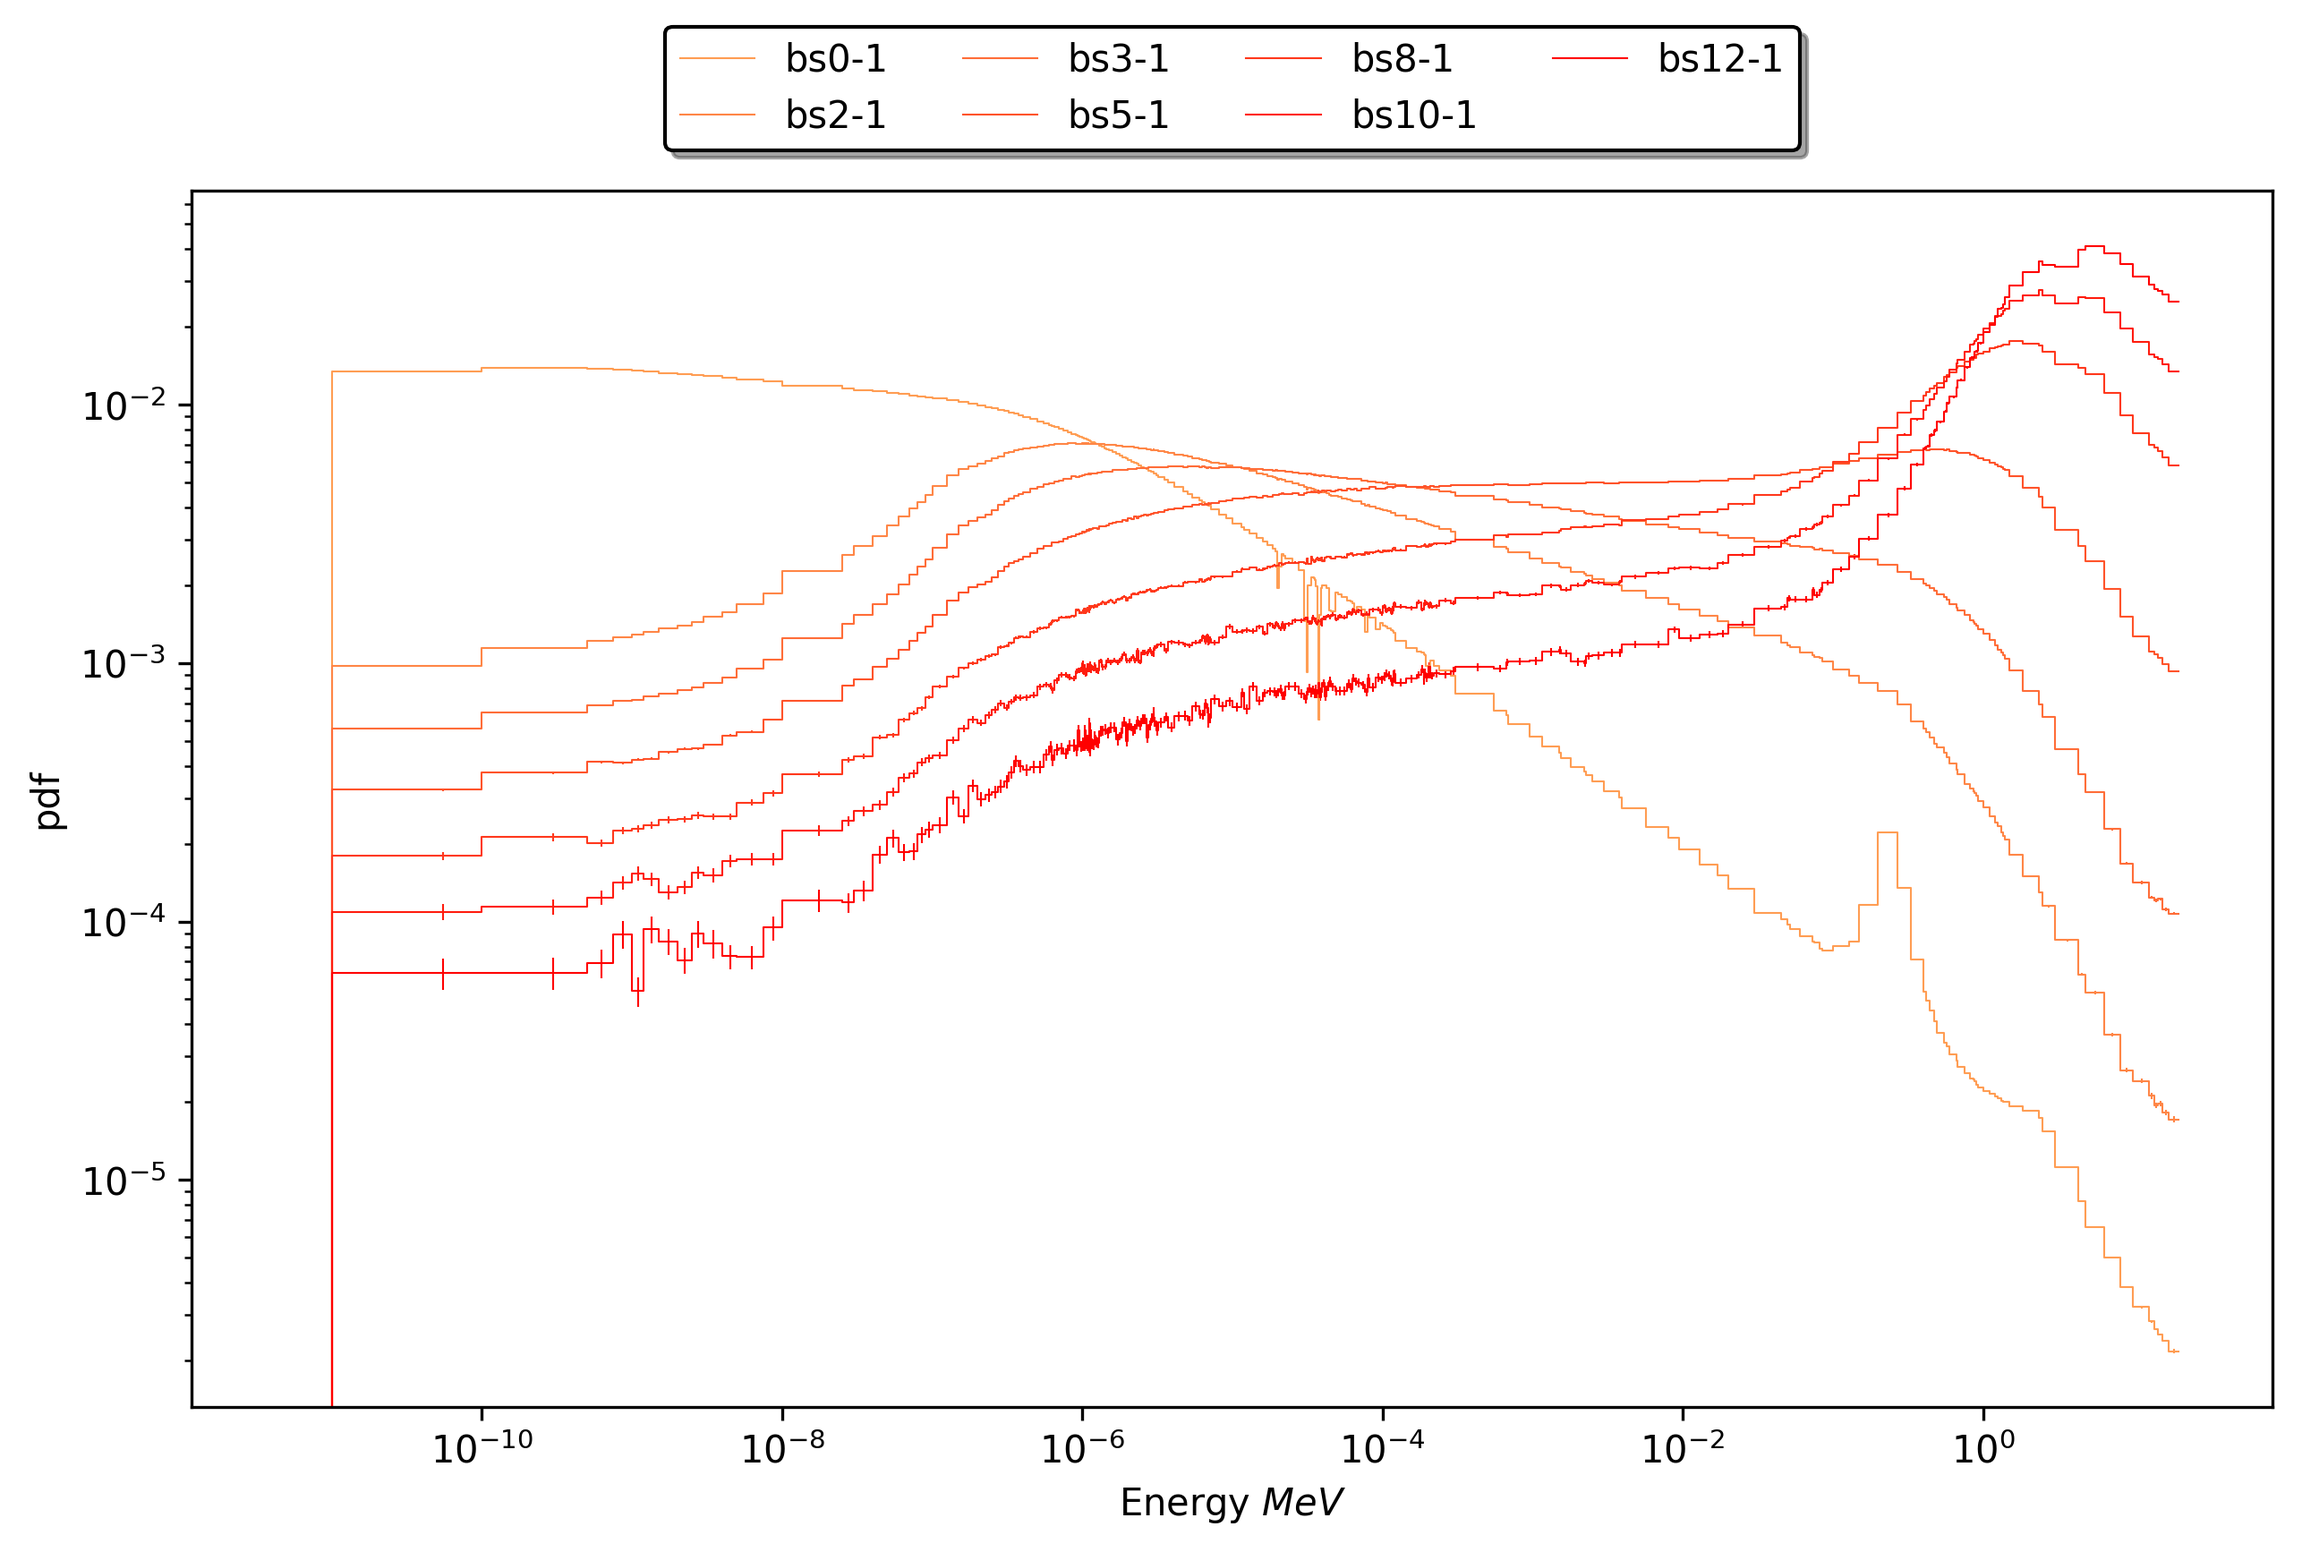
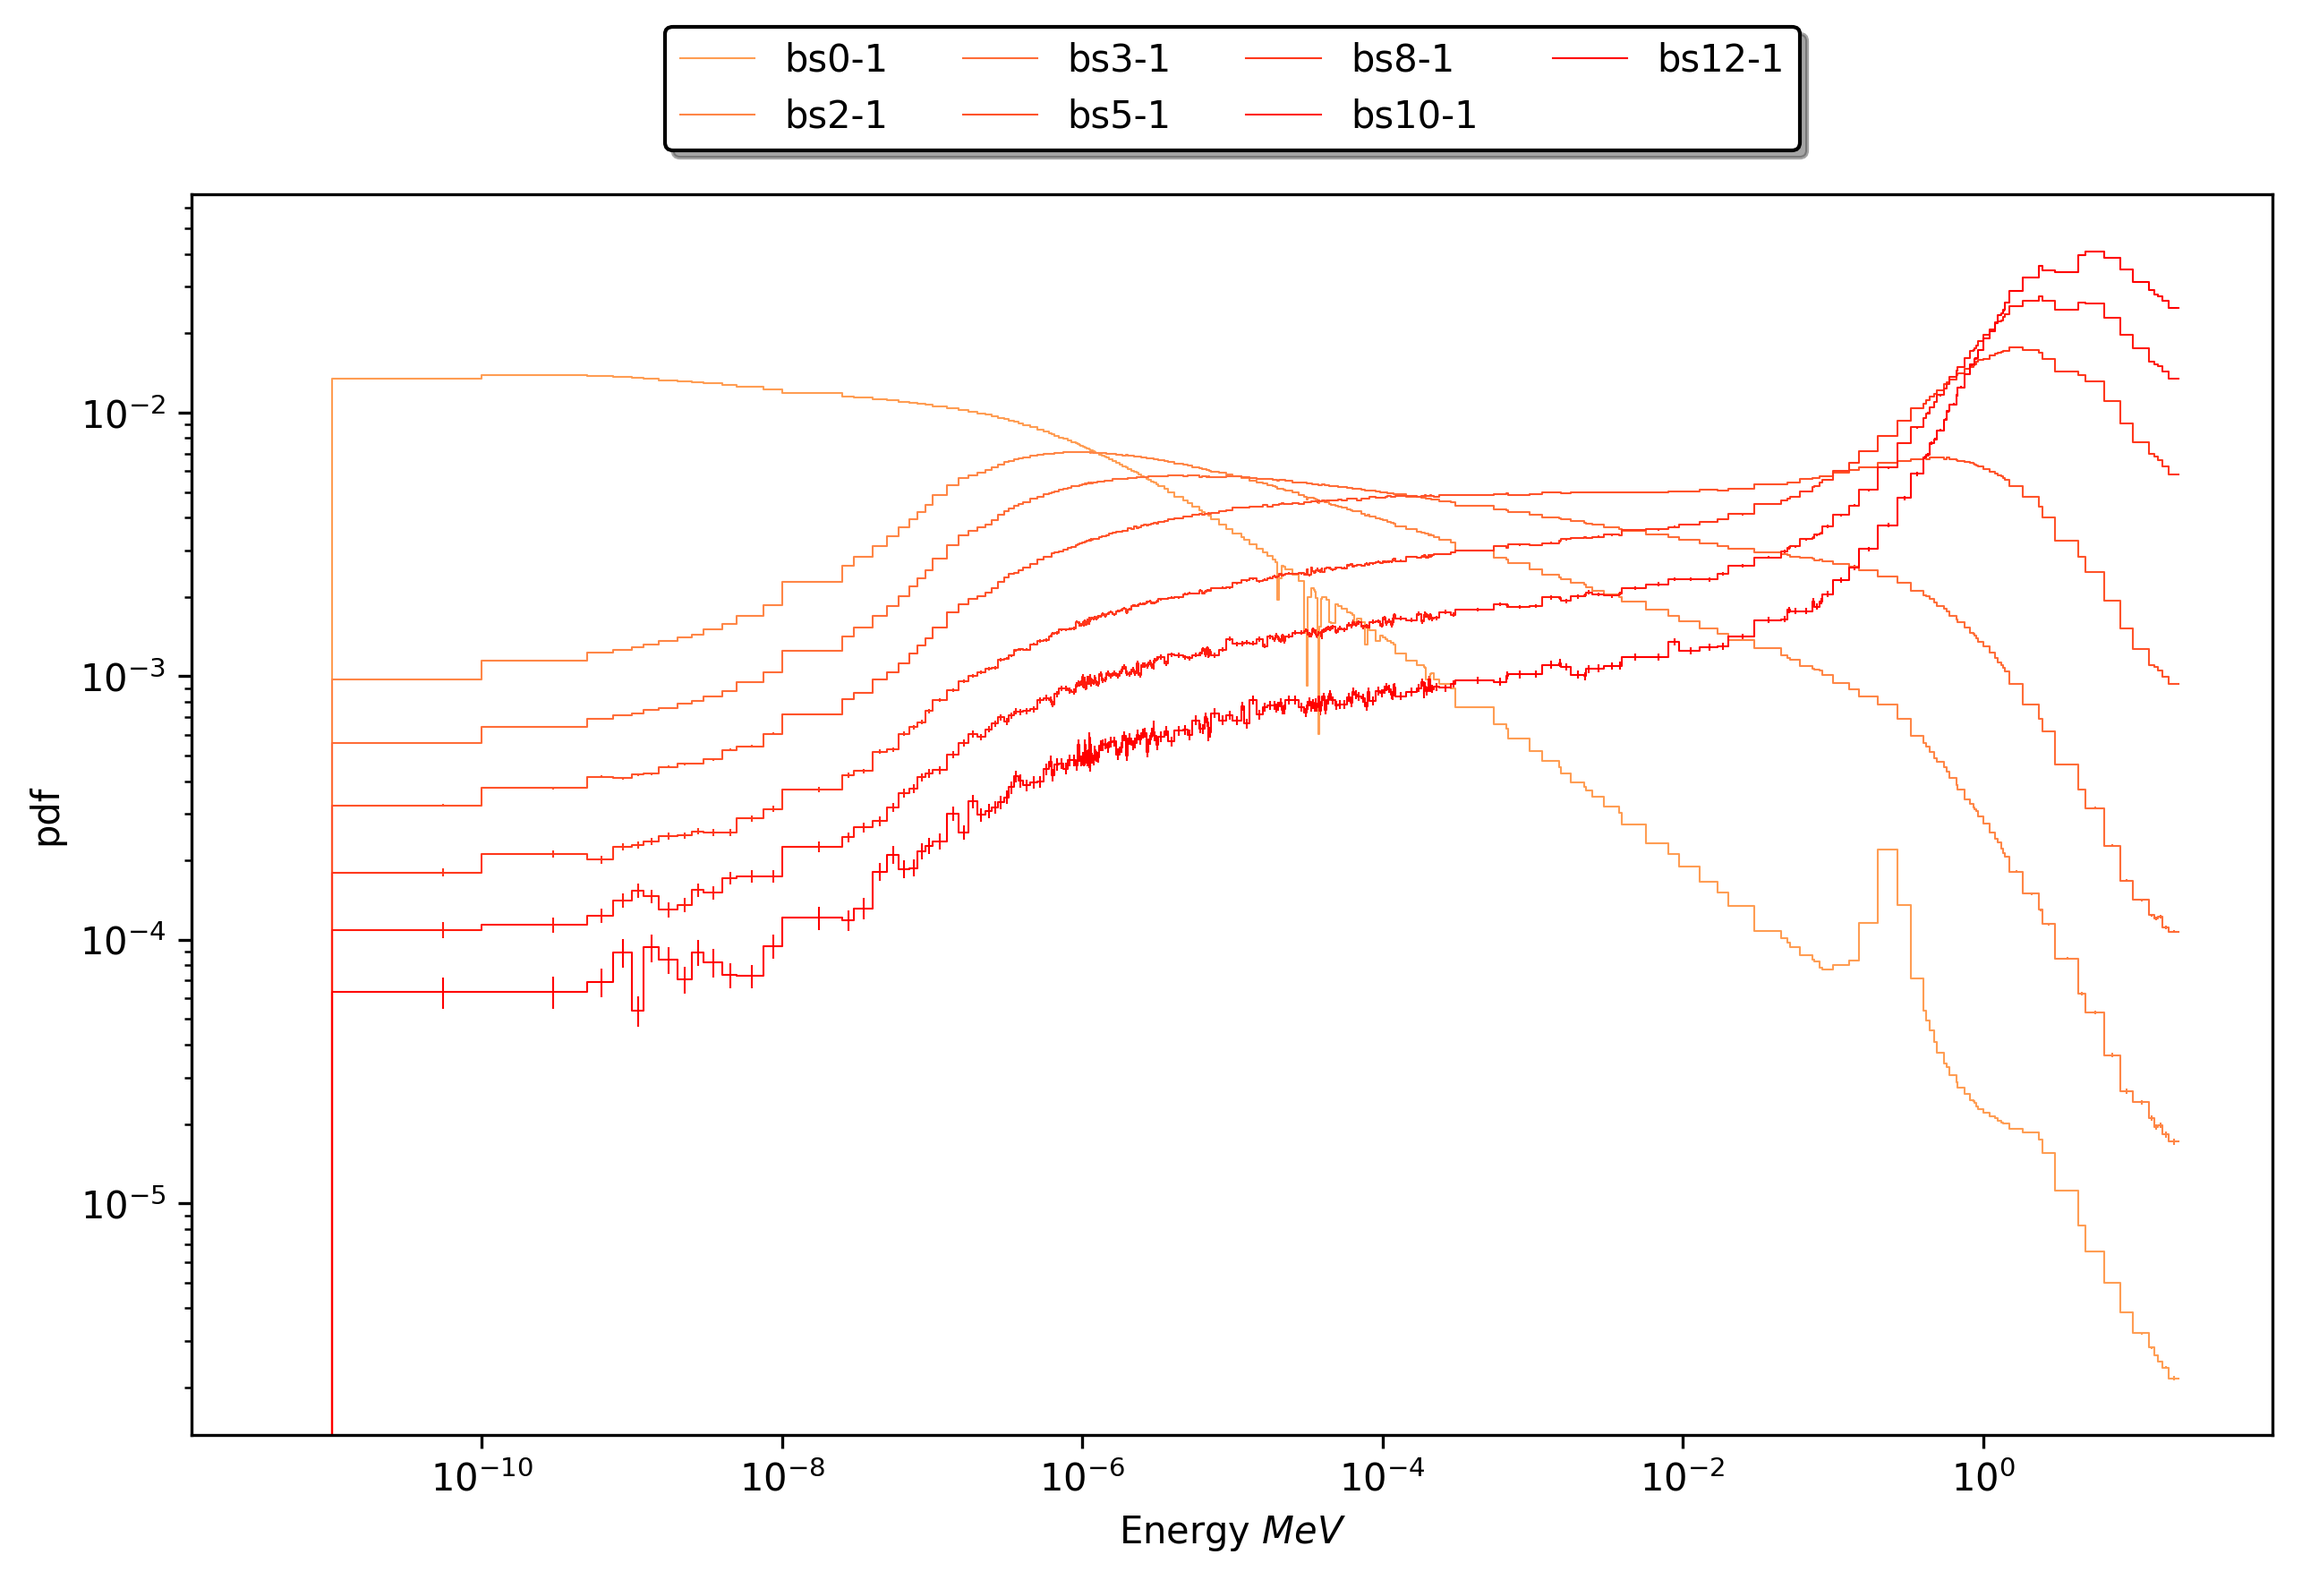
compleded experimental procedures

diff --git a/doc/foil_tube_procedures.tex b/doc/foil_tube_procedures.tex
@@ -10,6 +10,7 @@
 \usepackage[T1]{fontenc}
 \usepackage{graphicx} 
 \usepackage[export]{adjustbox}
+\usepackage[section]{placeins}
 % needed to include these graphics
 %\graphicspath{{./Pictures/}}      % only in case you want to keep the pictures in a separate
                                   % subdirectory; also see the appropriate line below
@@ -80,27 +81,49 @@ John Boyington
 
 %-------------------------------------------------------------------------------
 
-\section*{1. Device Description}
+\section{Device Description}
 \bigskip
 
 The device used in the experiment is a simple assembly consisting of gold foils embedded in HDPE sections contained within an aluminum tube.
+Each 1 in. section of HDPE has a small hole drilled into one side where a 5 mm OD disk of gold foil is inserted.
+Eleven of these sections are assembled and contained within the aluminum tubing (0.75" OD).
+The device is inserted such that the first foil illuminated by the beam is not covered.
+Below are images of the response functions associated with the device.
 
-\begin{figure}[h!]
-\includegraphics[width=0.6\linewidth]{img/exploded.jpg}
-\caption{Hello}
+\begin{figure}[!htb]
+\centering
+\begin{subfigure}{.5\textwidth}
+  \centering
+  \includegraphics[width=.8\linewidth]{img/exploded.jpg}
+  \caption{An exploded look at the device.}
+\end{subfigure}%
+\begin{subfigure}{.5\textwidth}
+  \centering
+  \includegraphics[width=.8\linewidth]{img/section0.jpg}
+  \caption{One section of HDPE with foil inserted.}
+\end{subfigure}
 \end{figure}
 
-\begin{figure}[h!]
-\includegraphics[width=0.6\linewidth]{img/section0.jpg}
-\caption{Hello}
-\end{figure}
 
-\begin{figure}[h!]
+\begin{figure}[!htb]
 \includegraphics[width=0.6\linewidth]{img/assy0.jpg}
-\caption{Hello}
+\caption{A look at semi-assembled internals. Note: the full device will have only 11 sections, not the 12 depicted.}
 \end{figure}
 
-\section*{2. Experimental Procedures}
+\begin{figure}[!htb]
+\includegraphics[width=0.8\linewidth]{../response/plot/ft_au.png}
+\caption{Response functions associated with each foil.}
+\end{figure}
+
+\begin{figure}[!htb]
+\includegraphics[width=0.8\linewidth]{../response/plot/ft_au_cdf.png}
+\caption{Cumulative distribution function of each foil multiplied by the expected integral flux.}
+\end{figure}
+
+
+\clearpage
+
+\section{Experimental Procedures}
 \bigskip
 
 \noindent
@@ -130,8 +153,18 @@ NEBP: Northeast Beam Port \\
 \end{enumerate}
 
 
-\section*{3. Expected Results}
+\newpage
+\section{Expected Results}
 \bigskip
+
+The image below contains information on the expected responses of each foil.
+The largest predicted activity, the bare foil is 54.19 $\mu Ci$.
+The lowest predicted activity, the foil farthest from the beam is 0.0292 $\mu Ci$.
+
+\begin{figure}[!htb]
+\includegraphics[width=0.8\linewidth]{../response/plot/ft_au_theoretical_responses.png}
+\caption{The expected activites of each foil following the irradiation.}
+\end{figure}
 
 \end{document}
 

diff --git a/response/response.py b/response/response.py
@@ -313,6 +313,6 @@ def plot_response_cdfs():
 
 
 if __name__ == '__main__':
-    # plot_response_data()
+    plot_response_data()
     plot_response_pdfs()
     plot_response_cdfs()
